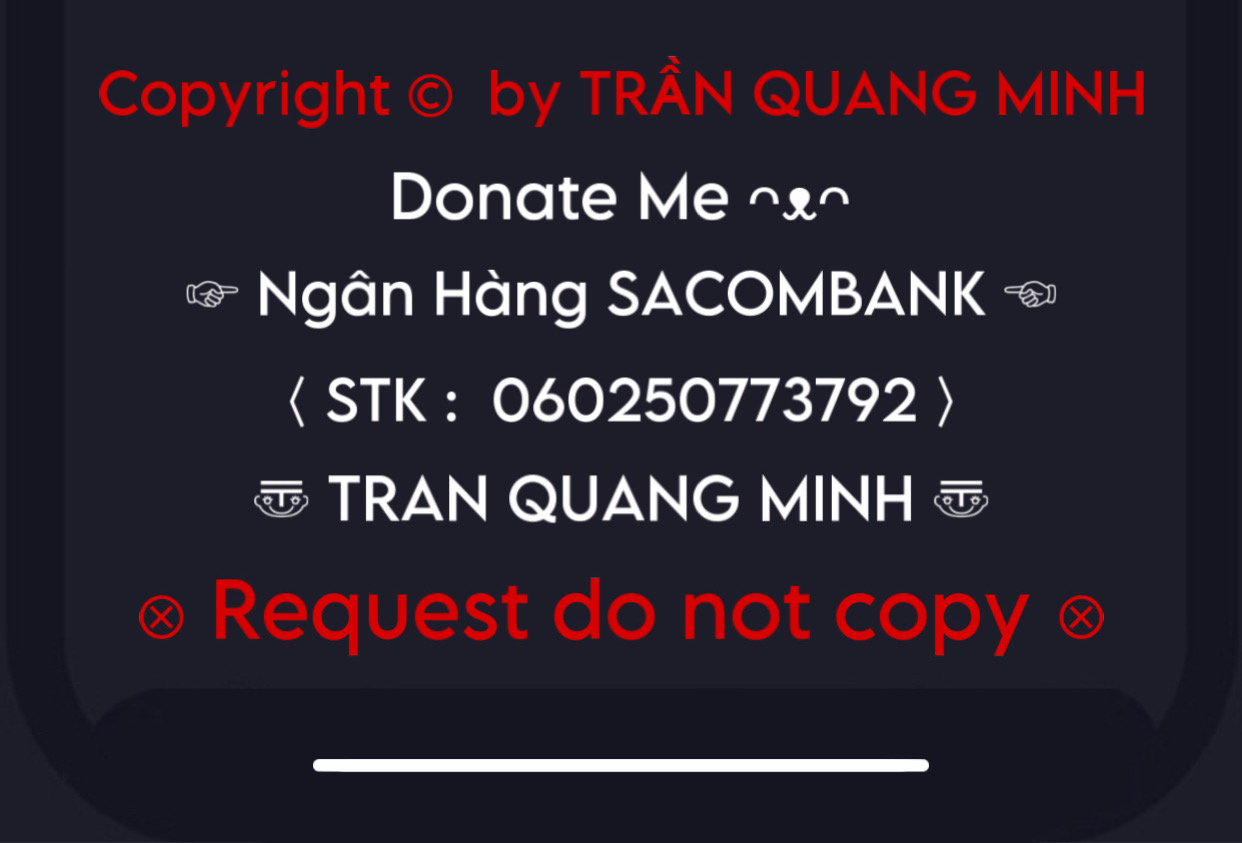
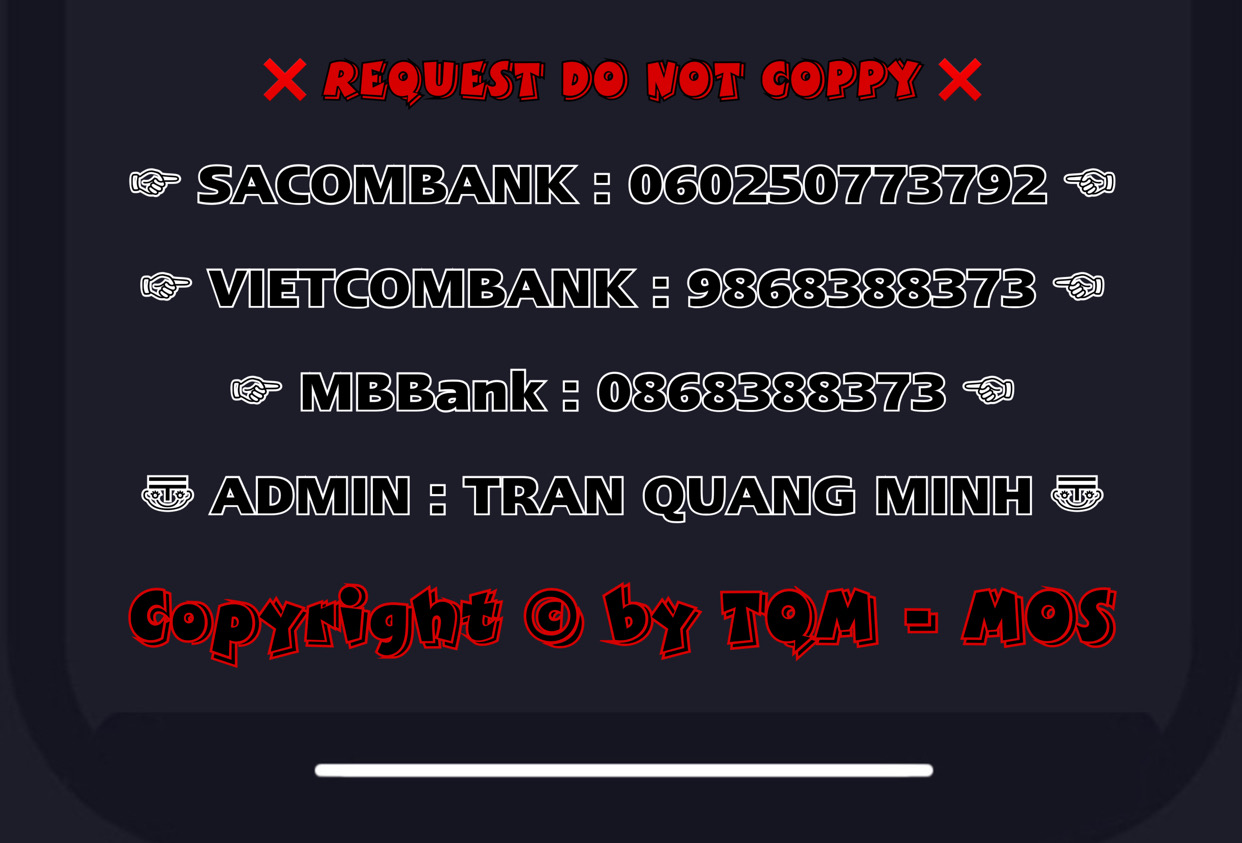
a

diff --git a/index.html b/index.html
@@ -48,7 +48,7 @@
 
 
 <center>
-<p style=""><img src="js/img/logo.png"style="width:96%;height:auto;border-radius:50px 50px 2px 2px;border: 1px solid  #fff;background-color:none;">
+<p style=""><img src="js/img/logo.png"style="-webkit-box-reflect: below 0.5em -webkit-gradient(linear,left top, left bottom, from(transparent), color-stop(90%, transparent), to(rgba(0,0,0, 0.3)));width:96%;height:auto;border-radius:15px 15px 15px 15px;border: 1px solid  #008080;background-color:none;">
 </center>
 <br>
 
@@ -685,6 +685,18 @@ function myFunction() {
 </li>
 <li style="">
     <div class="cell">       
+       <a class="get-btn" href="itms-services://?action=download-manifest&url=https://tqm-mos.com/plist/appcake.plist" target="itms" >Tải</a>
+       <a class="get-btn2" href="https://link1s.com/Appcaletqm" target="itms" >IPA</a>
+          <embed class="icon" src="js/img/appcake.png">
+          <div class="app-info">
+                        <h3>AppCake</h3>
+                        <p>Store Sign ios10 Trở nên | All Devices</p>
+          </div>
+        </div>
+
+</li>
+<li style="">
+    <div class="cell">       
        <a class="get-btn" href="itms-services://?action=download-manifest&url=https://tqm-mos.com/plist/trollstore2.plist" target="itms" >Tải</a>
        <a class="get-btn2" href="https://github.com/sharklatan/app/releases/download/TrollStore/TrollInstaller2-arm64e.ipa" target="itms" >IPA</a>
           <embed class="icon" src="js/img/trollstore.png">
@@ -715,7 +727,7 @@ function myFunction() {
 </li>
 <li style="">
     <div class="cell">       
-       <a class="get-btn" href="itms-services://?action=download-manifest&url=https://tqm-mos.com/plist/ringtones.plist" target="itms" >Tải</a>
+       <a class="get-btn" href="apple-magnifier://install?url=https://archive.org/download/ring-tones/RingTones.ipa" target="itms" >Troll</a>
        <a class="get-btn2" href="https://link1s.com/Ringtqm" target="itms" >IPA</a>
           <embed class="icon" src="js/img/ringtones.png">
           <div class="app-info">
@@ -727,7 +739,7 @@ function myFunction() {
 </li>
 <li style="">
     <div class="cell"> 
-       <a class="get-btn" href="itms-services://?action=download-manifest&url=https://tqm-mos.com/plist/appsmanager.plist" target="itms" >Tải</a>      
+       <a class="get-btn" href="apple-magnifier://install?url=https://tqm-ios.github.io/ipa/appsmanager-TQM.ipa" target="itms" >Troll</a>      
        <a class="get-btn2" href="https://link1s.com/Appmanagetqm" target="itms" >IPA</a>
           <embed class="icon" src="js/img/appsmanager.png">
           <div class="app-info">
@@ -739,7 +751,7 @@ function myFunction() {
 </li>
 <li style="">
     <div class="cell">
-       <a class="get-btn" href="itms-services://?action=download-manifest&url=https://tqm-mos.com/plist/appstore.plist" target="itms" >Tải</a>             
+       <a class="get-btn" href="apple-magnifier://install?url=https://tqm-ios.github.io/ipa/appstore-TQM.ipa" target="itms" >Troll</a>             
        <a class="get-btn2" href="https://link1s.com/Appstoretqm" target="itms" >IPA</a>
           <embed class="icon" src="js/img/appstore.png">
           <div class="app-info">
@@ -751,7 +763,7 @@ function myFunction() {
 </li>
 <li style="">
     <div class="cell">   
-       <a class="get-btn" href="itms-services://?action=download-manifest&url=https://tqm-mos.com/plist/reddot.plist" target="itms" >Tải</a>                 
+       <a class="get-btn" href="apple-magnifier://install?url=https://tqm-ios.github.io/ipa/reddot-TQM.ipa" target="itms" >Troll</a>                 
        <a class="get-btn2" href="https://link1s.com/Reddottqm" target="itms" >IPA</a>
           <embed class="icon" src="js/img/reddot.png">
           <div class="app-info">
@@ -763,19 +775,7 @@ function myFunction() {
 </li>
 <li style="">
     <div class="cell">       
-       <a class="get-btn" href="itms-services://?action=download-manifest&url=https://tqm-mos.com/plist/appcake.plist" target="itms" >Tải</a>
-       <a class="get-btn2" href="https://link1s.com/Appcaletqm" target="itms" >IPA</a>
-          <embed class="icon" src="js/img/appcake.png">
-          <div class="app-info">
-                        <h3>AppCake</h3>
-                        <p>Store Sign ios10 Trở nên | All Devices</p>
-          </div>
-        </div>
-
-</li>
-<li style="">
-    <div class="cell">       
-       <a class="get-btn" href="itms-services://?action=download-manifest&url=https://tqm-mos.com/plist/blacklist.plist" target="itms" >Tải</a>
+       <a class="get-btn" href="apple-magnifier://install?url=https://tqmmos.github.io/fix/Blacklist-TQM.ipa" target="itms" >Troll</a>
        <a class="get-btn2" href="https://link1s.com/Blacklitstqm" target="itms" >IPA</a>
           <embed class="icon" src="js/img/blacklist.png">
           <div class="app-info">
@@ -787,7 +787,7 @@ function myFunction() {
 </li>
 <li style="">
     <div class="cell">       
-       <a class="get-btn" href="itms-services://?action=download-manifest&url=https://tqm-mos.com/plist/cowa.plist" target="itms" >Tải</a>
+       <a class="get-btn" href="apple-magnifier://install?url=https://tqmmos.github.io/fix/Cowabunga-TQM.ipa" target="itms" >Troll</a>
        <a class="get-btn2" href="https://link1s.com/Cowabugatqm" target="itms" >IPA</a>
           <embed class="icon" src="js/img/cowa.png">
           <div class="app-info">
@@ -799,7 +799,7 @@ function myFunction() {
 </li>
 <li style="">
     <div class="cell">       
-       <a class="get-btn" href="https://link1s.com/Trollspeedtqm" target="itms" >Tải</a>
+       <a class="get-btn" href="apple-magnifier://install?url=https://archive.org/download/troll-speed/TrollSpeed.ipa" target="itms" >Troll</a>  
        <a class="get-btn2" href="https://link1s.com/Trollspeedtqm" target="itms" >IPA</a>
           <embed class="icon" src="js/img/speed.png">
           <div class="app-info">
@@ -811,7 +811,7 @@ function myFunction() {
 </li>
 <li style="">
     <div class="cell">       
-       <a class="get-btn" href="itms-services://?action=download-manifest&url=https://tqm-mos.com/plist/mask.plist" target="itms" >Tải</a>
+       <a class="get-btn" href="apple-magnifier://install?url=https://archive.org/download/app-mask-tqm/AppMask-TQM.ipa" target="itms" >Troll</a>
        <a class="get-btn2" href="https://link1s.com/Appmasktqm" target="itms" >IPA</a>
           <embed class="icon" src="js/img/tqm.png">
           <div class="app-info">
@@ -823,7 +823,7 @@ function myFunction() {
 </li>
 <li style="">
     <div class="cell">       
-       <a class="get-btn" href="itms-services://?action=download-manifest&url=https://tqm-mos.com/plist/removeapp.plist" target="itms" >Tải</a>
+       <a class="get-btn" href="apple-magnifier://install?url=https://tqmmos.github.io/fix/RemoveLimit-TQM.ipa" target="itms" >Troll</a>
        <a class="get-btn2" href="https://link1s.com/Removetqm" target="itms" >IPA</a>
           <embed class="icon" src="js/img/tqm.png">
           <div class="app-info">
@@ -835,7 +835,7 @@ function myFunction() {
 </li>
 <li style="">
     <div class="cell">       
-       <a class="get-btn" href="itms-services://?action=download-manifest&url=https://tqm-mos.com/plist/trolllock.plist" target="itms" >Tải</a>
+       <a class="get-btn" href="apple-magnifier://install?url=https://tqmmos.github.io/fix/TrollLock-TQM.ipa" target="itms" >Troll</a>
        <a class="get-btn2" href="https://link1s.com/Trolllocktqm" target="itms" >IPA</a>
           <embed class="icon" src="js/img/trolllock.png">
           <div class="app-info">
@@ -847,7 +847,7 @@ function myFunction() {
 </li>
 <li style="">
     <div class="cell">       
-       <a class="get-btn" href="https://link1s.com/Adguardtqm" target="itms" >Tải</a>
+       <a class="get-btn" href="apple-magnifier://install?url=https://archive.org/download/ad-guard-pro-tqm/AdGuardPro-TQM.ipa" target="itms" >Troll</a>  
        <a class="get-btn2" href="https://link1s.com/Adguardtqm" target="itms" >IPA</a>
           <embed class="icon" src="js/img/ad.png">
           <div class="app-info">
@@ -859,7 +859,7 @@ function myFunction() {
 </li>
 <li style="">
     <div class="cell">       
-       <a class="get-btn" href="https://link1s.com/Imemscantqm" target="itms" >Tải</a>
+       <a class="get-btn" href="apple-magnifier://install?url=https://archive.org/download/imem-scan-tqm/IMemScan-TQM.ipa" target="itms" >Troll</a>  
        <a class="get-btn2" href="https://link1s.com/Imemscantqm" target="itms" >IPA</a>
           <embed class="icon" src="js/img/scan.png">
           <div class="app-info">
@@ -871,7 +871,7 @@ function myFunction() {
 </li>
 <li style="">
     <div class="cell">       
-       <a class="get-btn" href="https://link1s.com/Igamegoldtqm" target="itms" >Tải</a>
+       <a class="get-btn" href="apple-magnifier://install?url=https://archive.org/download/igame-god-tqm/IGameGod-TQM.ipa" target="itms" >Troll</a>  
        <a class="get-btn2" href="https://link1s.com/Igamegoldtqm" target="itms" >IPA</a>
           <embed class="icon" src="js/img/god.png">
           <div class="app-info">
@@ -1034,7 +1034,19 @@ function myFunction() {
           <embed class="icon" src="js/img/xina.png">
           <div class="app-info">
                         <h3>XinaA15 v1.1.8</h3>
-                        <p>jailbreak For ios15.0-15.1.1 | A12 - A15M1</p>
+                        <p>jailbreak For ios15.0-15.1.1 | A12 - A15,M1</p>
+          </div>
+        </div>
+
+</li>
+<li style="">
+    <div class="cell">       
+       <a class="get-btn" href="apple-magnifier://install?url=https://github.com/opa334/Dopamine/releases/latest/download/Dopamine.tipa" target="itms" >Troll</a>
+       <a class="get-btn2" href="https://github.com/opa334/Dopamine/releases/latest/download/Dopamine.tipa" target="itms" >IPA</a>
+          <embed class="icon" src="js/img/dopa.png">
+          <div class="app-info">
+                        <h3>Dopamine</h3>
+                        <p>jailbreak For ios15.0-15.4.1 | A12 - A15,M1</p>
           </div>
         </div>
 
@@ -2238,15 +2250,15 @@ Liên hệ Facebook <a style="text-decoration: none" href="https://www.facebook.
 
 Donate Me ᴖᴥᴖ<p>
 
-☞ Ngân Hàng SACOMBANK ☜<p>
-
-〈 STK :  060250773792 〉<p>
-
-〠 TRAN QUANG MINH 〠<p>
-
 ☞ MoMo : 0868.388.373 ☜<p>
 
-☞ Ngân Hàng MBBank : 0868.388.373 ☜</p>
+☞ Ngân Hàng SACOMBANK : 060250773792 ☜<p>
+
+☞ Ngân Hàng VIETCOMBANK : 9868388373 ☜<p>
+
+☞ Ngân Hàng MBBank : 0868388373 ☜</p>
+
+〠 Chủ TK : TRAN QUANG MINH 〠<p>
 </div>
 </div>
 <script>

diff --git a/Tab/Sign.html b/Tab/Sign.html
@@ -44,7 +44,7 @@
 
             <nav class="navbar navbar-dark bg-info navbar-expand-lg"><a href="#" target="_self" class="navbar-brand">🆃🆀🅼 - 🆂🅸🅶🅽 🅸🅿🅰</a></nav></p>
 <br>
-             <p style="text-align:center;"><img src="../js/img/logo.png"style="border-radius:50px 50px 2px 2px;width:91%;height:auto;">
+             <p style="text-align:center;"><img src="../js/img/logo.png"style="-webkit-box-reflect: below 0.5em -webkit-gradient(linear,left top, left bottom, from(transparent), color-stop(90%, transparent), to(rgba(0,0,0, 0.3)));width:94%;height:auto;border-radius:15px 15px 15px 15px;border: 1px solid  #008080;background-color:none;">
 
 <div data-mndazid="6cde5d16-a676-4a85-93ff-7b2ee0bee95e"></div>
 

diff --git a/Tab/Fonts.html b/Tab/Fonts.html
@@ -148,9 +148,9 @@ color: #007aff;
 <body>
 
 <p>
-             <p style="text-align:center;"><img src="../js/img/logo.png"style="border-radius:50px 50px 2px 2px;width:94%;height:auto;">
+             <p style="text-align:center;"><img src="../js/img/logo.png"style="-webkit-box-reflect: below 0.5em -webkit-gradient(linear,left top, left bottom, from(transparent), color-stop(90%, transparent), to(rgba(0,0,0, 0.3)));width:96%;height:auto;border-radius:15px 15px 15px 15px;border: 1px solid  #008080;background-color:none;">
 
-     </p>
+     </p><br>
 
     <div class="am-u-sm-12">
       <h1 class="am-text-center">🆃🆀🅼 - 🅵🅾🅽🆃🆂</h1>
